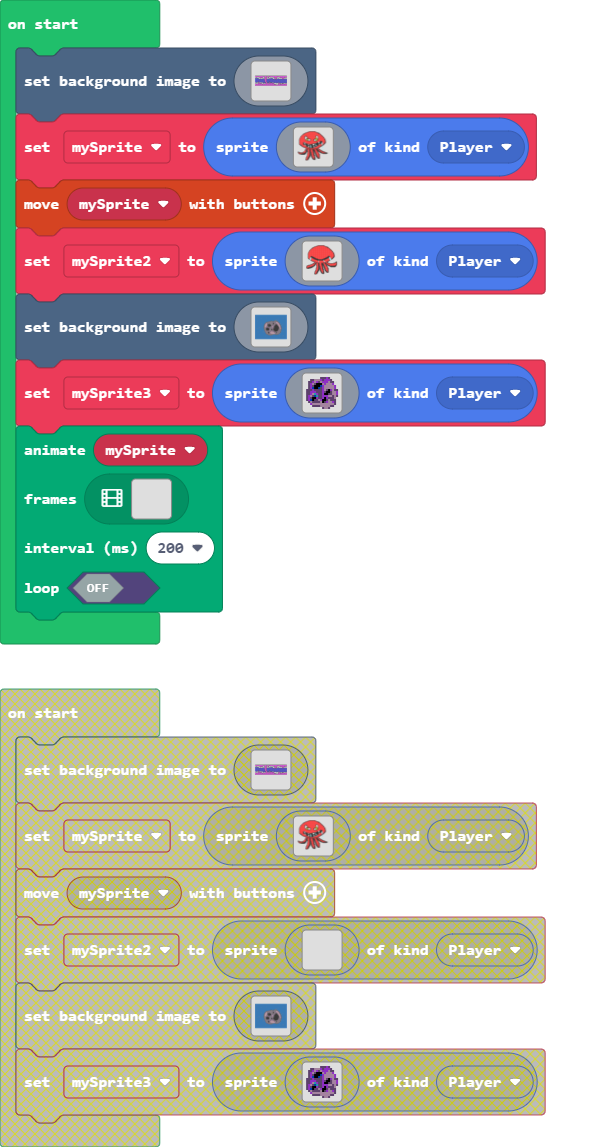
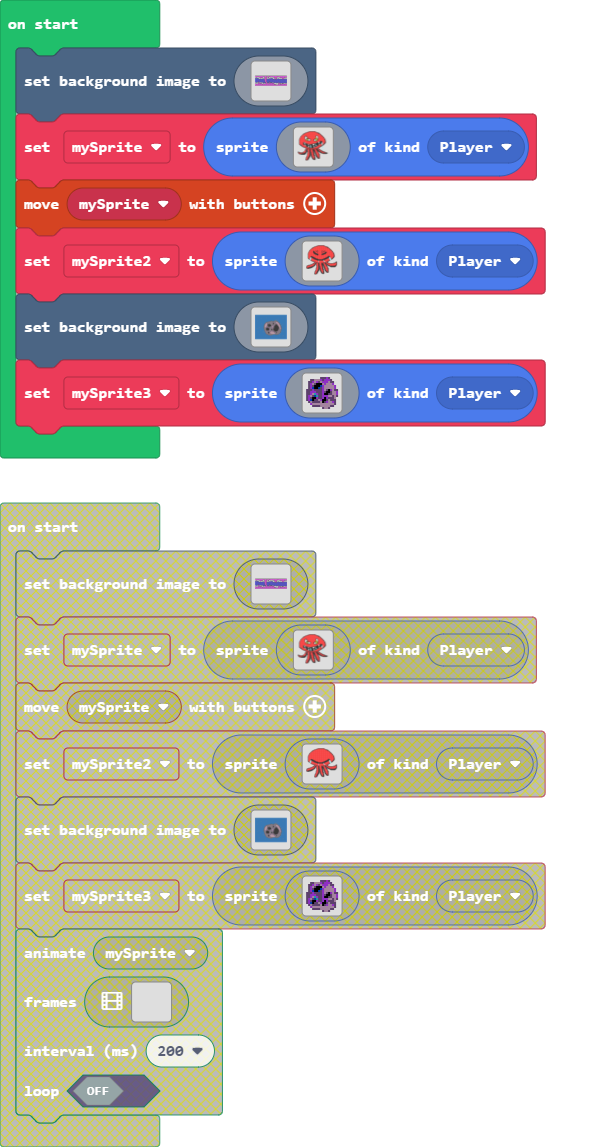
Update pxt.json, main.blocks, main.ts, images.g.ts

diff --git a/images.g.ts b/images.g.ts
@@ -113,248 +113,56 @@ namespace myImages {
         switch(helpers.stringTrim(name)) {
             case "boss":
             case "anim1":return [img`
-................................................................................
-    ..............................fffffffffffffff...................................
-    ...........................fff222222222222222ff.................................
-    ........................fff22222222222222222222ff...............................
-    .....................fff2222222222222222222222222ffff...........................
-    ...................ff2222222222222222222222222222222fff.........................
-    .................ff22222222222222222222222222222222222ff........................
-    ...............fff2222222222222222222222222222222222222ff.......................
-    ...............f22222222222222222222222222222222222222222ff.....................
-    .............ff22222222222222222222222222222222222222222222f....................
-    ............f2222222222222222222222222222222222222222222222f....................
-    ...........f22222222222222222222222222222222222fff2222222222ff..................
-    ..........f2222222222fff22222222222222222222222f11f22222222222f.................
-    .........f2222222222ff1ff2222222222222222222222f111f2222222222ff................
-    ........ff222222222ff11f22222222222222222222222f1111f22222222222f...............
-    ........f2222222222f1111f2222222222222222222222f1111f222222222222f..............
-    .......f22222222222f11111f22222222222222222222f5f111f222222222222ff.............
-    .......f22222222222f1111ffff222222222222222222f55f11f2222222222222f.............
-    ......f222222222222f111ff5ff22222222222222222ff555f1f22222222222222f............
-    ......f222222222222f111f5f5ff222222222222222fff5f5f1f222222222222222f...........
-    .....f2222222222222f11f5ff5f1fffff2222222f2ff1f5ff5ff222222222222222ff..........
-    .....f22222222222222f1f5f55f11111ff222222fff11f55f5ff2222222222222222f..........
-    .....f222222222222222ff555ff11111f22222222f111f5555f22222222222222222f..........
-    .....f2222222222222222ff55f111111f22222222f111ff55ff22222222222222222f..........
-    .....f222222222222222222ffffffffff22222222f1111f5ff22222222f2222222222f.........
-    .....f222222222222222222222222222222222222ffffffff222222222fff22222222f.........
-    .....f22222222222222222222222222222222222222222222222222fffffff2222222f.........
-    .....f22222222222222222222222222222222222222222222222211fffffff2222222f.........
-    .....f2222222222ffff2222222222222222222222222222222ff111ffffff99222222f.........
-    .....f222222222ff11f12222222222222222222222222222fffff11ffffff9922222ff.........
-    .....f222222222fff111f222222222222222222222222ffffffff1ffffff9992222ff..........
-    .....f222222222fff11ffff22222222222222222fffffffffffffffffff2999222ff...........
-    .....f222222222fffffffffffff222222222fffff1ff99ffffffff11ff22999222f............
-    .....ff22222222ffffffffffff1fffffffffff1111fff9fffffff111f2222992ff.............
-    ......ff22222222fff11ffffff111fff9fffff1111fff9fffffffff22222299ff..............
-    ........fff2222222f111ffffff11fff9ffffff111fff9fffffff222222229ff...............
-    ........ffff2222222ff1fffffffffff99fffffffffff999ffff22222222ff.................
-    ...........f222222222ffffffffffff99ffffffffffff999f22222222fff..................
-    ...........ff2222222222fffff11fff99fffffff1fffffff22222222ff....................
-    .............ff222222222fff1111fff99fffff111ffff222222222f......9...............
-    ...............fff2222222ffff11fff99fffff111f2222222222ff......99...............
-    ..................ffff222222ffffff99ffffffff222222222ff........99...............
-    ......................fff22222fffffffffff2222222222ff...........................
-    ......................f22ff2222222222222222222222ff2f...........................
-    .....................ff22f2fffff22222222f222fffff222ff........9.................
-    ....................ff22ff22222ffffffffffffff22ffff222f.......9.................
-    ....................f222fff2222ff222222fff222222ffff222ff........9..............
-    ....................f22ff.f2222fff22222ffff22222fffff222ff.......9..............
-    ...................ff2fff.f2222fff22222ffffff2222fffff2222ff....................
-    ...................f22fff.f2222fff22222ffffff22222fffff2222fff..................
-    ..................2222fff.f2222fff22222ffffff22222ffffff22222fff................
-    .................22222fff.f2222fff222222ff.fff22222f..ffff22222fff..............
-    ..ff...........ff2222fff..ff222ffff22222ff..ff22222ff..fffff22222ffff...........
-    ..ffff........ff22222ff....f222f.ff22222ff..fff22222f....ffff2222222fff.........
-    ..f22ffffffffff2222ffff...f2222ff.ff2222fff.fff222222f....fffff22222222fff......
-    ...f2222222222222fffff....f2222ff.ff22222ff..ff222222f.......fffffffffffffff....
-    ....ff222222fffffffff.....f2222ff.ff22222ff..fff222222f.........ffffffffff......
-    .....fffffffffffffff.....ff2222ff.ff22222ff...ff222222f.........................
-    .........ffffffffff......f22222ff.ff22222ff...fff22222ff........................
-    .........................f22222ff.fff2222ff...fff222222f........................
-    .........................f22222ff.fff2222fff..fff222222f........................
-    .........................f2222fff..ff22222ff...fff22222f........................
-    ........................f22222fff..ff22222ff...ffff2222f........................
-    ........................f22222ff...ff222222f...ffff2222f........................
-    .......................ff2222fff...fff22222f....fff2222f........................
-    .......................f2222fff.....fff2222ff....fff222f........................
-    ......................ff2222ff.......ff2222ff.....fff22f........................
-    ......................f2222fff.......fff222ff.....ffff2f........................
-    ......................f2222ff.........ff222ff.......ffff........................
-    ......................f222fff.........fff22ff...................................
-    .....................ff2222f...........ffffff...................................
-    .....................f2222ff.............ffff...................................
-    .....................fffff......................................................
-    ................................................................................
-    ................................................................................
-    ................................................................................
-    ................................................................................
-    ................................................................................
-    ................................................................................
-    ................................................................................
+. . . . . . . . . . . . . . . . 
+. . . . . . . . . . . . . . . . 
+. . . . . . . . . . . . . . . . 
+. . . . . 3 . . . . . . . . . . 
+. . . . 3 . . 3 3 . . . . . . . 
+. . . . 3 . . . 3 3 . . . . . . 
+. . . . 3 . . . 3 3 . . . . . . 
+. . . . 3 . . . 3 . . . . . . . 
+. . . . 3 3 3 3 3 . . . . . . . 
+. . . . . . . . . . . . . . . . 
+. . . . . . . . . . . . . . . . 
+. . . . . . . . . . . . . . . . 
+. . . . . . . . . . . . . . . . 
+. . . . . . . . . . . . . . . . 
+. . . . . . . . . . . . . . . . 
+. . . . . . . . . . . . . . . . 
 `, img`
-................................................................................
-    ..............................fffffffffffffff...................................
-    ...........................fff222222222222222ff.................................
-    ........................fff22222222222222222222ff...............................
-    .....................fff2222222222222222222222222ffff...........................
-    ...................ff2222222222222222222222222222222fff.........................
-    .................ff22222222222222222222222222222222222ff........................
-    ...............fff2222222222222222222222222222222222222ff.......................
-    ...............f22222222222222222222222222222222222222222ff.....................
-    .............ff22222222222222222222222222222222222222222222f....................
-    ............f2222222222222222222222222222222222222222222222f....................
-    ...........f22222222222222222222222222222222222fff2222222222ff..................
-    ..........f2222222222fff22222222222222222222222f11f22222222222f.................
-    .........f2222222222ff1ff2222222222222222222222f111f2222222222ff................
-    ........ff222222222ff11f22222222222222222222222f1111f22222222222f...............
-    ........f2222222222f1111f2222222222222222222222f1111f222222222222f..............
-    .......f22222222222f11111f22222222222222222222f5f111f222222222222ff.............
-    .......f22222222222f1111ffff222222222222222222f55f11f2222222222222f.............
-    ......f222222222222f111ff5ff22222222222222222ff555f1f22222222222222f............
-    ......f222222222222f111f5f5ff222222222222222fff5f5f1f222222222222222f...........
-    .....f2222222222222f11f5ff5f1fffff2222222f2ff1f5ff5ff222222222222222ff..........
-    .....f22222222222222f1f5f55f11111ff222222fff11f55f5ff2222222222222222f..........
-    .....f222222222222222ff555ff11111f22222222f111f5555f22222222222222222f..........
-    .....f2222222222222222ff55f111111f22222222f111ff55ff22222222222222222f..........
-    .....f222222222222222222ffffffffff22222222f1111f5ff22222222f2222222222f.........
-    .....f222222222222222222222222222222222222ffffffff222222222fff22222222f.........
-    .....f22222222222222222222222222222222222222222222222222fffffff2222222f.........
-    .....f22222222222222222222222222222222222222222222222211fffffff2222222f.........
-    .....f2222222222ffff2222222222222222222222222222222ff111ffffff99222222f.........
-    .....f222222222ff11f12222222222222222222222222222fffff11ffffff9922222ff.........
-    .....f222222222fff111f222222222222222222222222ffffffff1ffffff9992222ff..........
-    .....f222222222fff11ffff22222222222222222fffffffffffffffffff2999222ff...........
-    .....f222222222fffffffffffff222222222fffff1ff99ffffffff11ff22999222f............
-    .....ff22222222ffffffffffff1fffffffffff1111fff9fffffff111f2222992ff.............
-    ......ff22222222fff11ffffff111fff9fffff1111fff9fffffffff22222299ff..............
-    ........fff2222222f111ffffff11fff9ffffff111fff9fffffff222222229ff...............
-    ........ffff2222222ff1fffffffffff99fffffffffff999ffff22222222ff.................
-    ...........f222222222ffffffffffff99ffffffffffff999f22222222fff..................
-    ...........ff2222222222fffff11fff99fffffff1fffffff22222222ff....................
-    .............ff222222222fff1111fff99fffff111ffff222222222f......9...............
-    ...............fff2222222ffff11fff99fffff111f2222222222ff......99...............
-    ..................ffff222222ffffff99ffffffff222222222ff........99...............
-    ......................fff22222fffffffffff2222222222ff...........................
-    ......................f22ff2222222222222222222222ff2f...........................
-    .....................ff22f2fffff22222222f222fffff222ff........9.................
-    ....................ff22ff22222ffffffffffffff22ffff222f.......9.................
-    ....................f222fff2222ff222222fff222222ffff222ff........9..............
-    ....................f22ff.f2222fff22222ffff22222fffff222ff.......9..............
-    ...................ff2fff.f2222fff22222ffffff2222fffff2222ff....................
-    ...................f22fff.f2222fff22222ffffff22222fffff2222fff..................
-    ..................2222fff.f2222fff22222ffffff22222ffffff22222fff................
-    .................22222fff.f2222fff222222ff.fff22222f..ffff22222fff..............
-    ..ff...........ff2222fff..ff222ffff22222ff..ff22222ff..fffff22222ffff...........
-    ..ffff........ff22222ff....f222f.ff22222ff..fff22222f....ffff2222222fff.........
-    ..f22ffffffffff2222ffff...f2222ff.ff2222fff.fff222222f....fffff22222222fff......
-    ...f2222222222222fffff....f2222ff.ff22222ff..ff222222f.......fffffffffffffff....
-    ....ff222222fffffffff.....f2222ff.ff22222ff..fff222222f.........ffffffffff......
-    .....fffffffffffffff.....ff2222ff.ff22222ff...ff222222f.........................
-    .........ffffffffff......f22222ff.ff22222ff...fff22222ff........................
-    .........................f22222ff.fff2222ff...fff222222f........................
-    .........................f22222ff.fff2222fff..fff222222f........................
-    .........................f2222fff..ff22222ff...fff22222f........................
-    ........................f22222fff..ff22222ff...ffff2222f........................
-    ........................f22222ff...ff222222f...ffff2222f........................
-    .......................ff2222fff...fff22222f....fff2222f........................
-    .......................f2222fff.....fff2222ff....fff222f........................
-    ......................ff2222ff.......ff2222ff.....fff22f........................
-    ......................f2222fff.......fff222ff.....ffff2f........................
-    ......................f2222ff.........ff222ff.......ffff........................
-    ......................f222fff.........fff22ff...................................
-    .....................ff2222f...........ffffff...................................
-    .....................f2222ff.............ffff...................................
-    .....................fffff......................................................
-    ................................................................................
-    ................................................................................
-    ................................................................................
-    ................................................................................
-    ................................................................................
-    ................................................................................
-    ................................................................................ 
+. . . . . . . . . . . . . . . . 
+. . . . . . . . . . . . . . . . 
+. . . . . . . . . . . . . . . . 
+. . . . . . . . . . . . . . . . 
+. . . . . . . . . . . . . . . . 
+. . . . . . . . . . . . . . . . 
+. . . . . 3 3 3 3 3 3 . . . . . 
+. . . . 3 3 . . . 3 3 . . . . . 
+. . . . 3 . . . . . 3 . . . . . 
+. . . . 3 . . . . . 3 . . . . . 
+. . . . . 3 . . . . 3 . . . . . 
+. . . . . 3 3 3 3 3 . . . . . . 
+. . . . . . . . . . . . . . . . 
+. . . . . . . . . . . . . . . . 
+. . . . . . . . . . . . . . . . 
+. . . . . . . . . . . . . . . . 
 `, img`
-................................................................................
-    ..............................fffffffffffffff...................................
-    ...........................fff222222222222222ff.................................
-    ........................fff22222222222222222222ff...............................
-    .....................fff2222222222222222222222222ffff...........................
-    ...................ff2222222222222222222222222222222fff.........................
-    .................ff22222222222222222222222222222222222ff........................
-    ...............fff2222222222222222222222222222222222222ff.......................
-    ...............f22222222222222222222222222222222222222222ff.....................
-    .............ff22222222222222222222222222222222222222222222f....................
-    ............f2222222222222222222222222222222222222222222222f....................
-    ...........f22222222222222222222222222222222222fff2222222222ff..................
-    ..........f2222222222fff22222222222222222222222f11f22222222222f.................
-    .........f2222222222ff1ff2222222222222222222222f111f2222222222ff................
-    ........ff222222222ff11f22222222222222222222222f1111f22222222222f...............
-    ........f2222222222f1111f2222222222222222222222f1111f222222222222f..............
-    .......f22222222222f11111f22222222222222222222f5f111f222222222222ff.............
-    .......f22222222222f1111ffff222222222222222222f55f11f2222222222222f.............
-    ......f222222222222f111ff5ff22222222222222222ff555f1f22222222222222f............
-    ......f222222222222f111f5f5ff222222222222222fff5f5f1f222222222222222f...........
-    .....f2222222222222f11f5ff5f1fffff2222222f2ff1f5ff5ff222222222222222ff..........
-    .....f22222222222222f1f5f55f11111ff222222fff11f55f5ff2222222222222222f..........
-    .....f222222222222222ff555ff11111f22222222f111f5555f22222222222222222f..........
-    .....f2222222222222222ff55f111111f22222222f111ff55ff22222222222222222f..........
-    .....f222222222222222222ffffffffff22222222f1111f5ff22222222f2222222222f.........
-    .....f222222222222222222222222222222222222ffffffff222222222fff22222222f.........
-    .....f22222222222222222222222222222222222222222222222222fffffff2222222f.........
-    .....f22222222222222222222222222222222222222222222222211fffffff2222222f.........
-    .....f2222222222ffff2222222222222222222222222222222ff111ffffff99222222f.........
-    .....f222222222ff11f12222222222222222222222222222fffff11ffffff9922222ff.........
-    .....f222222222fff111f222222222222222222222222ffffffff1ffffff9992222ff..........
-    .....f222222222fff11ffff22222222222222222fffffffffffffffffff2999222ff...........
-    .....f222222222fffffffffffff222222222fffff1ff99ffffffff11ff22999222f............
-    .....ff22222222ffffffffffff1fffffffffff1111fff9fffffff111f2222992ff.............
-    ......ff22222222fff11ffffff111fff9fffff1111fff9fffffffff22222299ff..............
-    ........fff2222222f111ffffff11fff9ffffff111fff9fffffff222222229ff...............
-    ........ffff2222222ff1fffffffffff99fffffffffff999ffff22222222ff.................
-    ...........f222222222ffffffffffff99ffffffffffff999f22222222fff..................
-    ...........ff2222222222fffff11fff99fffffff1fffffff22222222ff....................
-    .............ff222222222fff1111fff99fffff111ffff222222222f......9...............
-    ...............fff2222222ffff11fff99fffff111f2222222222ff......99...............
-    ..................ffff222222ffffff99ffffffff222222222ff........99...............
-    ......................fff22222fffffffffff2222222222ff...........................
-    ......................f22ff2222222222222222222222ff2f...........................
-    .....................ff22f2fffff22222222f222fffff222ff........9.................
-    ....................ff22ff22222ffffffffffffff22ffff222f.......9.................
-    ....................f222fff2222ff222222fff222222ffff222ff........9..............
-    ....................f22ff.f2222fff22222ffff22222fffff222ff.......9..............
-    ...................ff2fff.f2222fff22222ffffff2222fffff2222ff....................
-    ...................f22fff.f2222fff22222ffffff22222fffff2222fff..................
-    ..................2222fff.f2222fff22222ffffff22222ffffff22222fff................
-    .................22222fff.f2222fff222222ff.fff22222f..ffff22222fff..............
-    ..ff...........ff2222fff..ff222ffff22222ff..ff22222ff..fffff22222ffff...........
-    ..ffff........ff22222ff....f222f.ff22222ff..fff22222f....ffff2222222fff.........
-    ..f22ffffffffff2222ffff...f2222ff.ff2222fff.fff222222f....fffff22222222fff......
-    ...f2222222222222fffff....f2222ff.ff22222ff..ff222222f.......fffffffffffffff....
-    ....ff222222fffffffff.....f2222ff.ff22222ff..fff222222f.........ffffffffff......
-    .....fffffffffffffff.....ff2222ff.ff22222ff...ff222222f.........................
-    .........ffffffffff......f22222ff.ff22222ff...fff22222ff........................
-    .........................f22222ff.fff2222ff...fff222222f........................
-    .........................f22222ff.fff2222fff..fff222222f........................
-    .........................f2222fff..ff22222ff...fff22222f........................
-    ........................f22222fff..ff22222ff...ffff2222f........................
-    ........................f22222ff...ff222222f...ffff2222f........................
-    .......................ff2222fff...fff22222f....fff2222f........................
-    .......................f2222fff.....fff2222ff....fff222f........................
-    ......................ff2222ff.......ff2222ff.....fff22f........................
-    ......................f2222fff.......fff222ff.....ffff2f........................
-    ......................f2222ff.........ff222ff.......ffff........................
-    ......................f222fff.........fff22ff...................................
-    .....................ff2222f...........ffffff...................................
-    .....................f2222ff.............ffff...................................
-    .....................fffff......................................................
-    ................................................................................
-    ................................................................................
-    ................................................................................
-    ................................................................................
-    ................................................................................
-    ................................................................................
-    ................................................................................ 
+. . . . . . . . . . . . . . . . 
+. . . . . . . . . . . . . . . . 
+. . . . . . . . . . . . . . . . 
+. . . . . . . . . . . . . . . . 
+. . . . . . . . . . . . . . . . 
+. . . 3 3 3 3 3 3 . . . . . . . 
+. . . . 3 3 . . 3 3 . . . . . . 
+. . . 3 3 . . . . . 3 . . . . . 
+. . . 3 . . . . . . . 3 . . . . 
+. . . 3 . . . . . . . 3 . . . . 
+. . . 3 . . . . . . . 3 . . . . 
+. . . 3 . . . . . . . 3 . . . . 
+. . . . 3 . . . . . 3 . . . . . 
+. . . . . 3 3 3 3 3 . . . . . . 
+. . . . . . . . . . . . . . . . 
+. . . . . . . . . . . . . . . . 
 `];
             case "myAnim":
             case "anim2":return [img`

diff --git a/main.ts b/main.ts
@@ -139,19 +139,19 @@ let mySprite2 = sprites.create(img`
     ............f2222222222222222222222222222222222222222222222f....................
     ...........f222222222222222222222222222222222222222222222222ff..................
     ..........f222222222222222222222222222222222222222222222222222f.................
-    .........f2222222222222222222222222222222222222222222222222222ff................
-    ........ff222222222222222222222222222222222222222222222222222222f...............
-    ........f22222222222222222222222222222222222222222222222222222222f..............
-    .......f222222222222222222222222222222222222222222222222222222222ff.............
-    .......f2222222222222222222222222222222222222222222222222222222222f.............
-    ......f222222222222222222222222222222222222222222222222222222222222f............
-    ......f2222222222222222222222222222222222222222222222222222222222222f...........
-    .....f22222222222222222222222222222222222222222222222222222222222222ff..........
-    .....f222222222222222222222222222222222222222222222222222222222222222f..........
-    .....f222222222222222222222222222222222222222222222222222222222222222f..........
-    .....f222222222222222222222222222222222222222222222222222222222222222f..........
-    .....f2222222222222222222222222222222222222222222222222222222222222222f.........
-    .....f2222222222222222222222222222222222222222222222222222222222222222f.........
+    .........f222222222222222222f222222222222f22222222222222222222ff................
+    ........ff222222222222222f222f2222222222f222222f2222222222222222f...............
+    ........f222222222fff2222ff222f22222222f22222fff22222222222222222f..............
+    .......f2222222222ffff2222ff222222222222222fff2222222222222222222ff.............
+    .......f2222222222ffff222222ff2222222222fff222222fff22222222222222f.............
+    ......f22222222222fffff222222f222222222ff2222222ffff222222222222222f............
+    ......f222222222222fffff2222222222222222222222ffffff2222222222222222f...........
+    .....f2222222222222fffffff222222222222222222fffffff22222222222222222ff..........
+    .....f22222222222222ffffffff2222222222222fffffffff2222222222222222222f..........
+    .....f222222222222222ffffffffff22222222ffffffffff22222222222222222222f..........
+    .....f22222222222222222ffffffff22222222fffffff22222222222222222222222f..........
+    .....f2222222222222222222ffffff22222222fffff22222222222222222222222222f.........
+    .....f2222222222222222222222fff222222222222222222222222222222222222222f.........
     .....f2222222222222222222222222222222222222222222222222222222222222222f.........
     .....f22222222222222222222222222222222222222222222222222ff222222222222f.........
     .....f222222ffff222222222222222222222222222222222222222fffff2222222222f.........
@@ -347,9 +347,3 @@ let mySprite3 = sprites.create(img`
     . . . c c c c b b b b b c c . . 
     . . . . . . . . c b b c . . . . 
     `, SpriteKind.Player)
-animation.runImageAnimation(
-mySprite,
-assets.animation`myAnim`,
-200,
-false
-)
